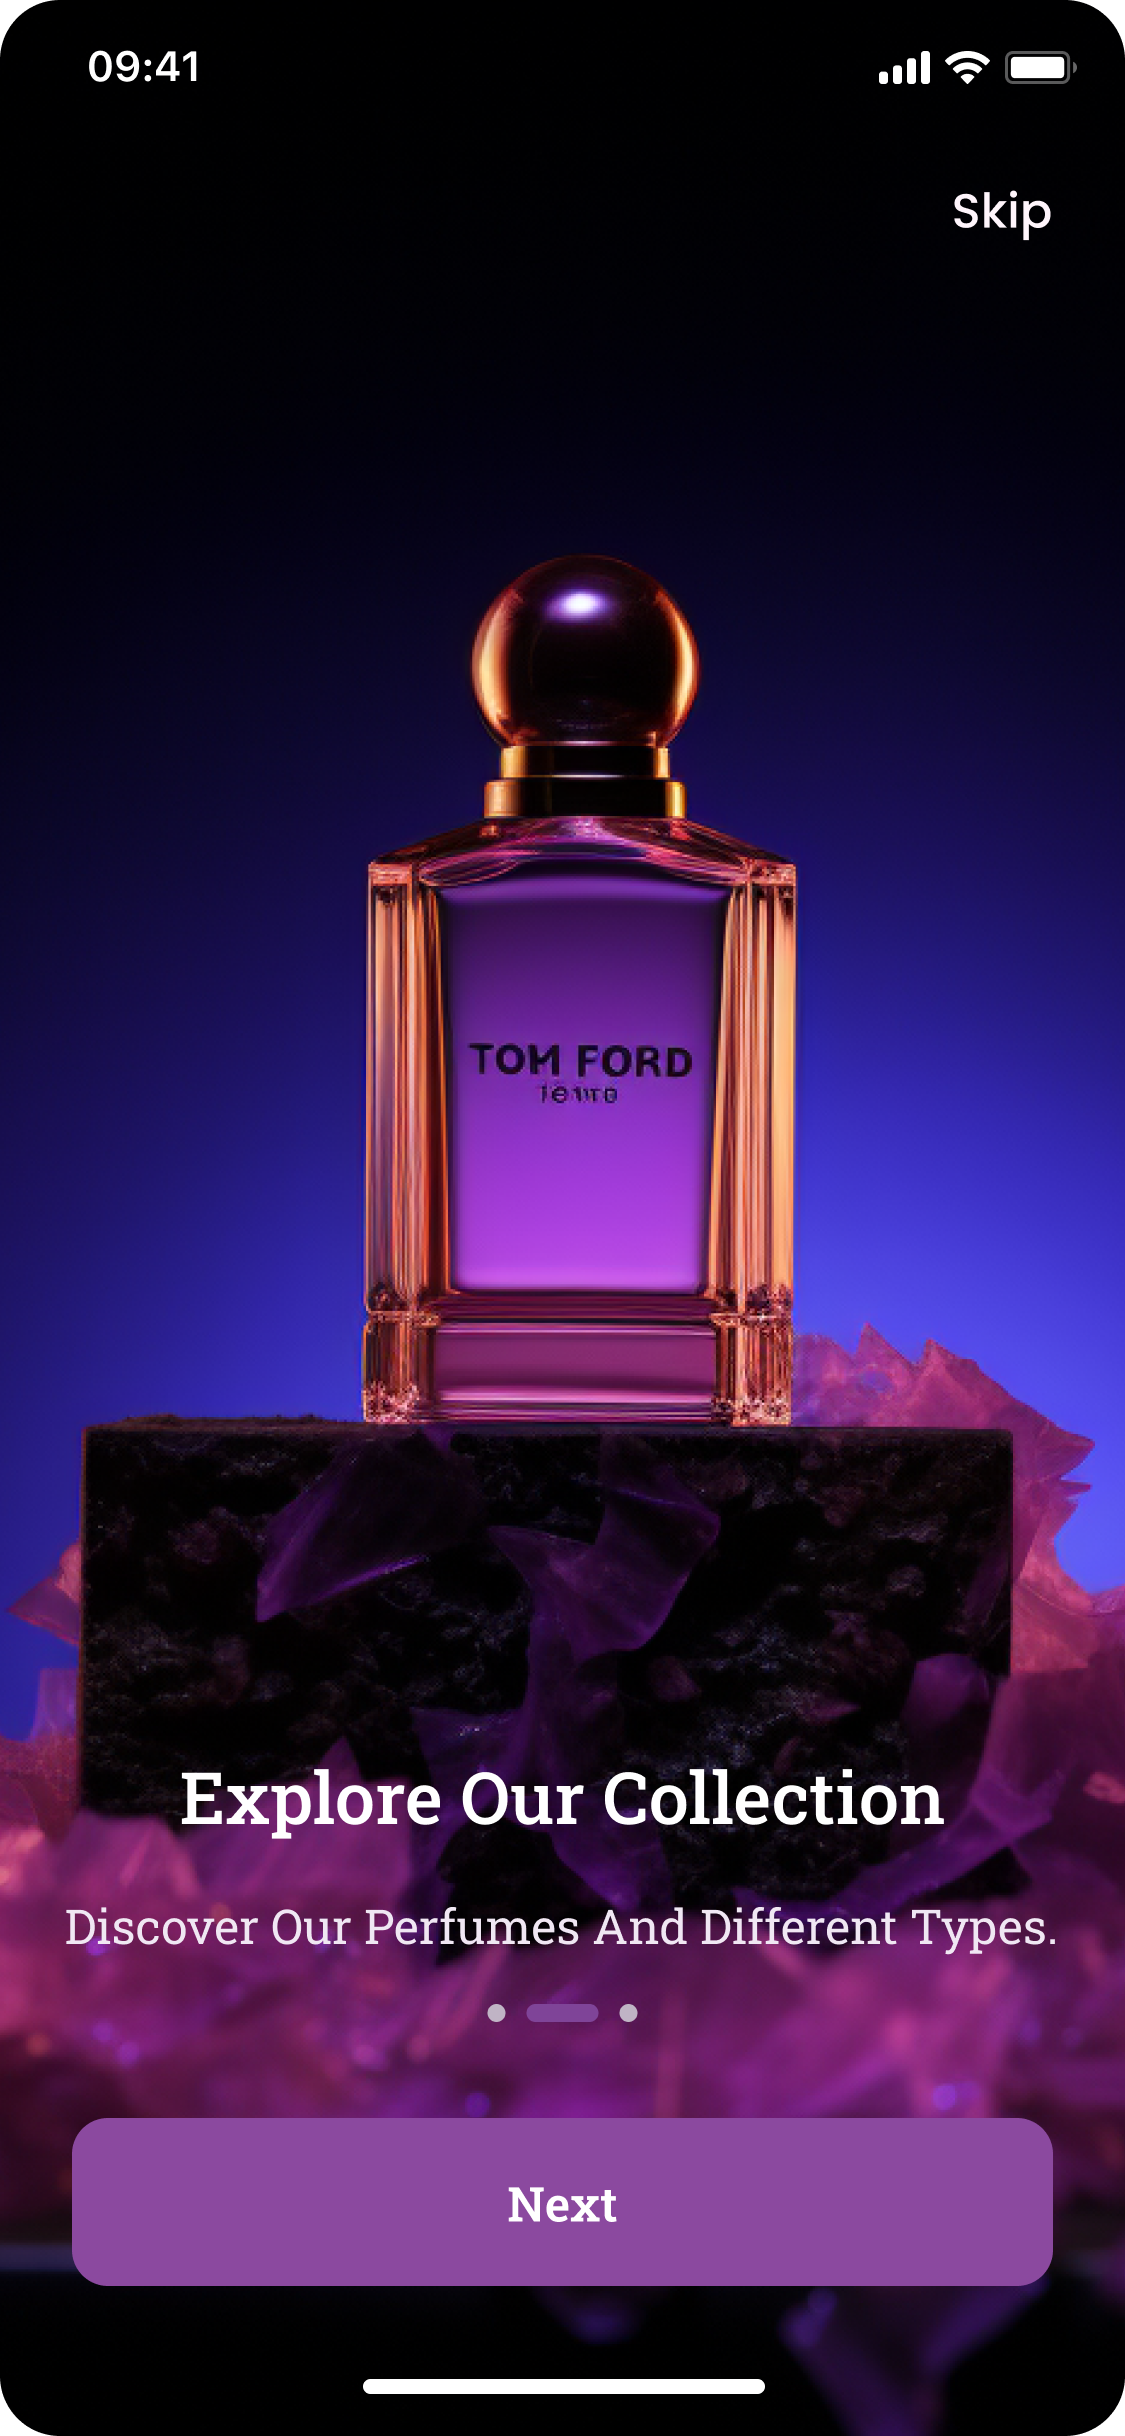
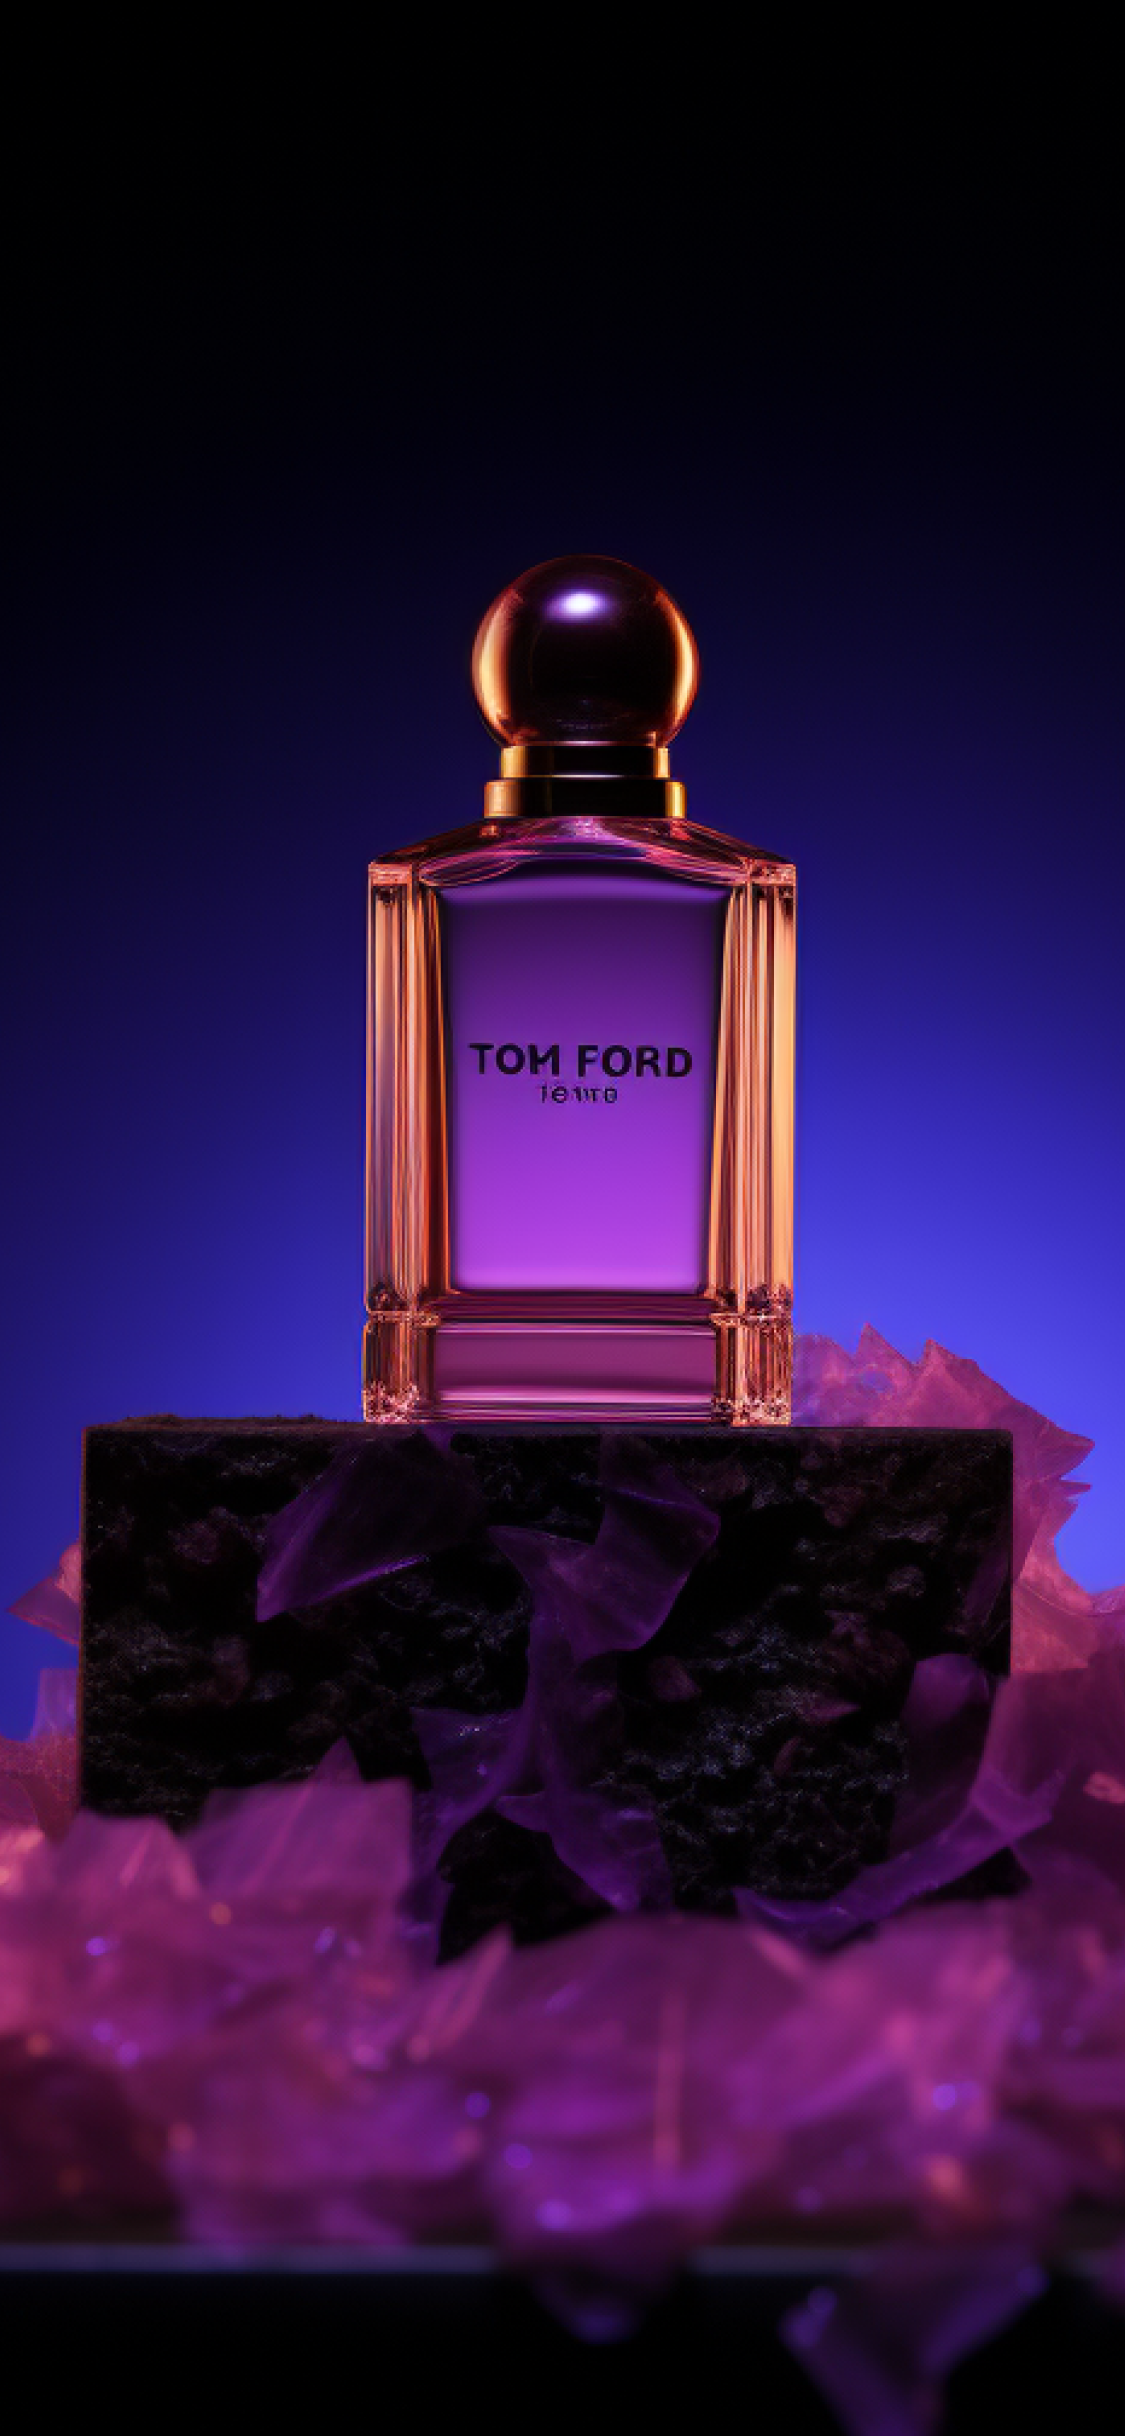
init commit

diff --git a/lib/presentation/views/onboarding/onboarding_screen.dart b/lib/presentation/views/onboarding/onboarding_screen.dart
@@ -9,7 +9,6 @@ import '../../../core/manager/string_manager.dart';
 import '../../../core/widgets/custom_button.dart';
 import '../../business_logic/onboarding_cubit/onboarding_cubit.dart';
 
-
 class OnBoardingScreen extends StatefulWidget {
   const OnBoardingScreen({super.key});
 
@@ -32,18 +31,27 @@ class _OnBoardingScreenState extends State<OnBoardingScreen> {
       body: SafeArea(
         child: BlocBuilder<OnboardingCubit, OnboardingState>(
           builder: (context, state) {
-            return Column(
+            return Stack(
               children: [
                 OnBoardingPageBuilder(cubit: cubit),
-                DotsIndicator(cubit: cubit),
-                48.h.emptyHeight,
-                CustomButton(
-                  onPressed: cubit.currentIndex == 2
-                      ? () => cubit.navigate(context)
-                      : () => cubit.changeIndex(cubit.currentIndex++),
-                  switcherCondition: cubit.currentIndex < 2,
-                  firstChild: const Text(StringsManager.next),
-                  secondChild: const Text(StringsManager.getStarted),
+                Positioned(
+                  bottom: 0,
+                  left: 0,
+                  right: 0,
+                  child: Column(
+                    children: [
+                      DotsIndicator(cubit: cubit),
+                      31.h.emptyHeight,
+                      CustomButton(
+                        onPressed: cubit.currentIndex == 2
+                            ? () => cubit.navigate(context)
+                            : () => cubit.changeIndex(cubit.currentIndex++),
+                        switcherCondition: cubit.currentIndex < 2,
+                        firstChild: const Text(StringsManager.next),
+                        secondChild: const Text(StringsManager.getStarted),
+                      ),
+                    ],
+                  ),
                 ),
               ],
             );

diff --git a/lib/presentation/views/onboarding/widgets/onboarding_body.dart b/lib/presentation/views/onboarding/widgets/onboarding_body.dart
@@ -21,11 +21,7 @@ class OnboardingBody extends StatelessWidget {
         .entries
         .singleWhere((element) => element.key == 'headline')
         .value;
-    final title = cubit.onboardingContent.values
-        .elementAt(cubit.currentIndex)
-        .entries
-        .singleWhere((element) => element.key == 'title')
-        .value;
+    
     final subTitle = cubit.onboardingContent.values
         .elementAt(cubit.currentIndex)
         .entries
@@ -34,19 +30,19 @@ class OnboardingBody extends StatelessWidget {
     return Stack(
       children: [
         OnboardingImage(image: image),
-        MiniButton(
-            topPosition: 11.h,
-            rightPosition: 24.w,
-            visible: cubit.currentIndex != 2,
-            onPressed: () => cubit.skipOnboarding(),
-            text: StringsManager.skip),
-        MiniButton(
-            topPosition: 11.h,
-            leftPosition: 24.w,
-            visible: cubit.currentIndex != 0,
-            onPressed: () => cubit.backOnboarding(),
-            text: StringsManager.back),
-        OnboardingContent(headline: headline, title: title, subTitle: subTitle)
+        // MiniButton(
+        //     topPosition: 11.h,
+        //     rightPosition: 24.w,
+        //     visible: cubit.currentIndex != 2,
+        //     onPressed: () => cubit.skipOnboarding(),
+        //     text: StringsManager.skip),
+        // MiniButton(
+        //     topPosition: 11.h,
+        //     leftPosition: 24.w,
+        //     visible: cubit.currentIndex != 0,
+        //     onPressed: () => cubit.backOnboarding(),
+        //     text: StringsManager.back),
+        OnboardingContent(headline: headline, subTitle: subTitle)
       ],
     );
   }

diff --git a/lib/presentation/views/onboarding/widgets/onboarding_content.dart b/lib/presentation/views/onboarding/widgets/onboarding_content.dart
@@ -1,24 +1,21 @@
-
 import 'package:flutter/material.dart';
 import 'package:flutter_screenutil/flutter_screenutil.dart';
 import 'package:veloute_app/core/extenstions.dart';
 
 import '../../../../core/manager/images_manager.dart';
 
-
 class OnboardingContent extends StatelessWidget {
-  final String headline, title, subTitle;
+  final String headline, subTitle;
   const OnboardingContent({
     super.key,
     required this.headline,
-    required this.title,
     required this.subTitle,
   });
 
   @override
   Widget build(BuildContext context) {
     return Positioned(
-      bottom: 0,
+      bottom: 127.h,
       left: 0,
       right: 0,
       child: TweenAnimationBuilder(
@@ -37,12 +34,11 @@ class OnboardingContent extends StatelessWidget {
                 headline,
                 style: Theme.of(context).textTheme.headlineLarge,
               ),
-              Text(
-                title,
-                style: Theme.of(context).textTheme.headlineMedium,
-              ),
-              
-              25.h.emptyHeight,
+              // Text(
+              //   title,
+              //   style: Theme.of(context).textTheme.headlineMedium,
+              // ),
+              16.h.emptyHeight,
               Text(
                 subTitle,
                 style: Theme.of(context).textTheme.headlineSmall,

diff --git a/lib/presentation/views/onboarding/widgets/onboarding_image.dart b/lib/presentation/views/onboarding/widgets/onboarding_image.dart
@@ -2,7 +2,7 @@ import 'package:flutter/material.dart';
 
 class OnboardingImage extends StatelessWidget {
   final String image;
-  const OnboardingImage({super.key,required this.image});
+  const OnboardingImage({super.key, required this.image});
 
   @override
   Widget build(BuildContext context) {
@@ -14,20 +14,12 @@ class OnboardingImage extends StatelessWidget {
         duration: const Duration(milliseconds: 200),
         child: child,
       ),
-      child: Align(
-        alignment: Alignment.topCenter,
-        child: Container(
-          width: MediaQuery.of(context).size.width,
-          height: MediaQuery.of(context).size.height / 2,
-          clipBehavior: Clip.antiAlias,
-          decoration: const BoxDecoration(
-              borderRadius: BorderRadius.only(
-                  bottomLeft: Radius.circular(25),
-                  bottomRight: Radius.circular(25))),
-          child: Image.asset(
-            image,
-            fit: BoxFit.cover,
-          ),
+      child: SizedBox(
+        width: MediaQuery.of(context).size.width,
+        height: MediaQuery.of(context).size.height,
+        child: Image.asset(
+          image,
+          fit: BoxFit.cover,
         ),
       ),
     );

diff --git a/lib/presentation/views/onboarding/widgets/onboarding_page_builder.dart b/lib/presentation/views/onboarding/widgets/onboarding_page_builder.dart
@@ -3,7 +3,6 @@ import 'package:flutter/material.dart';
 import '../../../business_logic/onboarding_cubit/onboarding_cubit.dart';
 import 'onboarding_body.dart';
 
-
 class OnBoardingPageBuilder extends StatelessWidget {
   const OnBoardingPageBuilder({
     super.key,
@@ -14,19 +13,16 @@ class OnBoardingPageBuilder extends StatelessWidget {
 
   @override
   Widget build(BuildContext context) {
-    return Expanded(
-      key: GlobalKey(),
-      child: PageView.builder(
-        physics: const NeverScrollableScrollPhysics(),
-        itemCount: cubit.onboardingContent.length,
-        controller: cubit.pageController,
-        onPageChanged: (index) {
-          cubit.changeIndex(index);
-        },
-        itemBuilder: (context, index) {
-          return const OnboardingBody();
-        },
-      ),
+    return PageView.builder(
+      physics: const NeverScrollableScrollPhysics(),
+      itemCount: cubit.onboardingContent.length,
+      controller: cubit.pageController,
+      onPageChanged: (index) {
+        cubit.changeIndex(index);
+      },
+      itemBuilder: (context, index) {
+        return const OnboardingBody();
+      },
     );
   }
 }

diff --git a/lib/core/manager/string_manager.dart b/lib/core/manager/string_manager.dart
@@ -1,12 +1,10 @@
 class StringsManager {
-  static const onboarding1Headline = 'Welcome To Anime';
-  static const onboarding1Title = 'World!';
-  static const onboarding1SubTitle = 'Start your anime movie journey with us.';
+  static const onboarding1Headline = 'Welcome to the Veloute';
+  static const onboarding1SubTitle = 'Here you will find the best perfumes';
 
-  static const onboarding2Headline = 'Download And Enjoy';
-  static const onboarding2Title = 'Offline!';
+  static const onboarding2Headline = 'Explore Our Collection';
   static const onboarding2SubTitle =
-      'Download your favorite anime movie and enjoy them offline.';
+      'Discover Our Perfumes And Different Types';
 
   static const onboarding3Headline = 'Watch Anywhere,';
   static const onboarding3Title = 'Anytime!';

diff --git a/lib/presentation/business_logic/onboarding_cubit/onboarding_cubit.dart b/lib/presentation/business_logic/onboarding_cubit/onboarding_cubit.dart
@@ -17,17 +17,17 @@ class OnboardingCubit extends Cubit<OnboardingState> {
   final Map<String, Map<String, String>> onboardingContent = {
     ImagesManager.onboarding1: {
       'headline': StringsManager.onboarding1Headline,
-      'title': StringsManager.onboarding1Title,
+     
       'subtitle': StringsManager.onboarding1SubTitle,
     },
     ImagesManager.onboarding2: {
       'headline': StringsManager.onboarding2Headline,
-      'title': StringsManager.onboarding2Title,
+     
       'subtitle': StringsManager.onboarding2SubTitle,
     },
     ImagesManager.onboarding3: {
       'headline': StringsManager.onboarding3Headline,
-      'title': StringsManager.onboarding3Title,
+     
       'subtitle': StringsManager.onboarding3SubTitle,
     },
   };

diff --git a/lib/core/manager/theme_manager.dart b/lib/core/manager/theme_manager.dart
@@ -40,9 +40,9 @@ class ThemeManager {
       textTheme: TextTheme(
         // headline
         headlineLarge: TextStyle(
-            fontSize: FontsManager.s30,
+            fontSize: FontsManager.s24,
             color: ColorsManager.white,
-            fontWeight: FontWeight.w500),
+            fontWeight: FontWeight.w400),
         headlineMedium: TextStyle(
             fontSize: FontsManager.s30,
             color: ColorsManager.primary,

diff --git a/lib/presentation/views/splash_screen/splash_screen.dart b/lib/presentation/views/splash_screen/splash_screen.dart
@@ -9,6 +9,7 @@ class SplashScreen extends StatelessWidget {
 
   @override
   Widget build(BuildContext context) {
+
     return Scaffold(
       backgroundColor: ColorsManager.primary,
       body: BlocBuilder<SplashCubit, SplashState>(
@@ -20,4 +21,8 @@ class SplashScreen extends StatelessWidget {
       ),
     );
   }
+
+
+
+
 }

diff --git a/lib/core/manager/fonts_manager.dart b/lib/core/manager/fonts_manager.dart
@@ -2,7 +2,6 @@ import 'package:flutter_screenutil/flutter_screenutil.dart';
 
 class FontsManager {
   static final double s10 = 10.sp;
-
   static final double s12 = 12.sp;
 
   static final double s14 = 14.sp;
